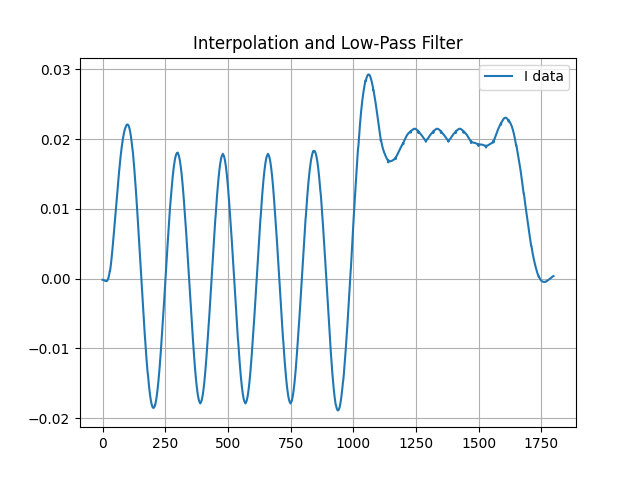
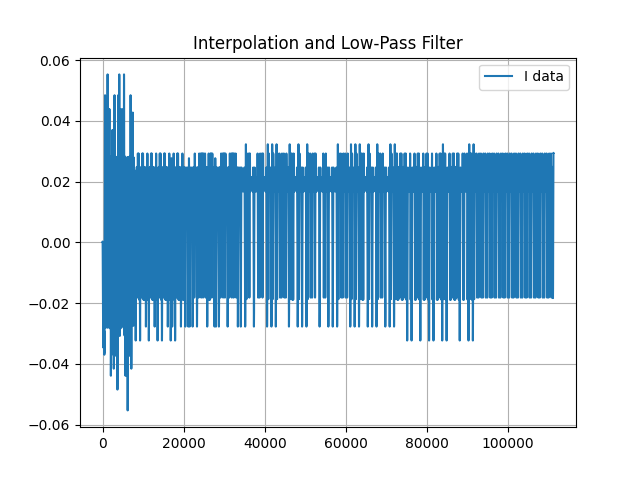
change

diff --git a/QPSK_sim.py b/QPSK_sim.py
@@ -2,7 +2,7 @@ import numpy as np
 import matplotlib.pyplot as plt
 from scipy.signal import upfirdn,lfilter,firwin
 
-
+from random import choice
 
 #Software
 
@@ -200,12 +200,12 @@ print('Occupaid Band width: ',BW* 8.4)
 Vi = 20
 
 ConSine = [1 if i%2 == 0 else -1 for i in range(10)]
-PreAmple = [1,1,1,1,1,1,1,1,0,0,0-1,-1,-1,-1,0,0,0,0,0,0,0]
-
-
 
 
 h = rrc_filter(0,6,3)
+
+X1 = np.array([1, -1, 1, -1, -1, -1, -1, -1, 1, -1, 1, -1, -1, -1, 1, -1, -1, 1, -1, -1, 1, 1, -1, -1, -1, 1, -1, -1, -1, -1, -1, -1, -1, -1, -1, 1, -1, -1, -1, -1, -1, -1, -1, -1, 1, -1, 1, 1, 1, 1, -1, -1, 1, 1, -1, -1, -1, -1, 1, -1, -1, -1, 1, 1, -1, 1, -1, 1, -1, 1, 1, 1, -1, 1, -1, 1, 1, -1, 1, 1, -1, 1, -1, 1])
+preamble = X1*1.5
 
 
 # === FIR Low-pass Filter Design (Anti-Imaging) ===
@@ -221,17 +221,14 @@ plt.show(block = False)
 
 input()
 
+stt = 0
 
 def Modulate (Data):
 
     global Test_S
     
     BS = Generate_BitStream (Data)
-    Scr_BS = Scrambler(BS)
-    
-    
-    #print(Scr_BS)
-    
+    Scr_BS = Scrambler(BS)    
     
     print('No of S/W bits in Slot: ', len(Scr_BS))
     
@@ -256,50 +253,44 @@ def Modulate (Data):
     IQ = GrayMap(Int_BS)
     _I,_Q = IQ[0] , IQ[1]
     
-    
 
-    Tend = Vi
     plt.cla()
-    plt.stem(_I[:Tend],label = 'I Data')
-    #plt.stem(_Q[:Tend],label = 'Q data')
+    plt.stem(_I,label = 'I Data')
+    #plt.stem(_Q,label = 'Q data')
     plt.legend()
     plt.title('RAW DATA')
     plt.show(block = False)
 
     input()
 
-    _I = PreAmple+_I
-    _Q = PreAmple+_Q
-    _I = ConSine+_I
-    _Q = ConSine+_Q
+    _I = list(preamble)+_I
+    _Q = list(preamble)+_Q
 
     #upsampling
     I = [0 for i in range(len(_I)*3)]
     Q = [0 for i in range(len(_Q)*3)]
-    Tend = Vi * 3
+    PreD =  [0 for i in range(len(preamble)*3)]
     i=0
     s = 1
-
-
-
 
     for j in range(0,len(I),3):
       I[j+s] = _I[i]
       Q[j+s] = _Q[i]
       i+=1
+    i=0
+ 
+    for j in range(0,len(PreD),3):
+        PreD[j+s] = preamble[i]
+        i+=1
     del(i)
-
-
 
     I = np.array(I)
     Q = np.array(Q)
 
 
-
-
     plt.cla()
-    plt.stem(n[:Tend],I[:Tend],label = 'I data')
-    #plt.stem(n[:Tend],Q[:Tend],label = 'Q data')
+    plt.stem(I,label = 'I data')
+    #plt.stem(n[Q,label = 'Q data')
     plt.legend()
     plt.title('UPSAMPLED')
     plt.show(block = False)
@@ -311,11 +302,16 @@ def Modulate (Data):
     up_I = np.convolve(I, h, mode='same')
     up_Q = np.convolve(Q, h, mode='same')
 
-    
+    PreD = list(np.convolve(np.array(PreD), h, mode='same'))
+    Peek = max(PreD)
+
+    StPeek = PreD.index(Peek)
+    print(Peek ,'@', StPeek)
+    print(len(PreD) - StPeek)
 
     plt.cla()
-    plt.plot(n[:Tend],up_I[:Tend],label = 'I data')
-    plt.plot(n[:Tend],up_Q[:Tend],label = 'Q data')
+    plt.plot(up_I,label = 'I data')
+    plt.plot(up_Q,label = 'Q data')
     plt.legend()
 
     plt.title('Pulse Shape after RRC Filter')
@@ -336,8 +332,6 @@ def Modulate (Data):
 
   
 
-    Tend = Vi * 3 *Interpolation
-
     print(len(up_I),len(ip_I))
 
     '''plt.plot(ip_I[:Tend],label = 'I data')
@@ -357,8 +351,8 @@ def Modulate (Data):
 
     plt.cla()
     
-    plt.plot(n[:Tend], DAC_I[:Tend],label = 'I data')
-    #plt.plot(n[:Tend], DAC_Q[:Tend],label = 'Q data')
+    plt.plot(DAC_I,label = 'I data')
+    #plt.plot(DAC_Q,label = 'Q data')
     plt.legend()
     plt.title('Interpolation and Low-Pass Filter')
     plt.grid()
@@ -371,11 +365,9 @@ def Modulate (Data):
     # Modulation
 
     DAC_Rd = 6.2E9
-    vi =Vi * 3 * Interpolation
+ 
     Interpolation = 33
     print('DAC interpolation: ',Interpolation)
-    Tend = int(vi * Interpolation)
-
 
     lpf = firwin(num_taps, (Sampling_rate / 2) / (DAC_Rd / 2), window='hamming')
 
@@ -391,9 +383,9 @@ def Modulate (Data):
 
     tfc = np.arange(len(DAC_upI)) / DAC_Rd
 
-    Fc = 100000000
+    Fc = 100e6
 
-    #Fc = int(input('Enter Frequency(kHz): '))*1000
+    #Fc = int(input('Enter Frequency(MHz): '))*1e6
 
     Sig_I = DAC_upI * np.cos(2 * np.pi * Fc * tfc)
     Sig_Q = DAC_upQ * np.sin(2 * np.pi * Fc * tfc)
@@ -401,8 +393,8 @@ def Modulate (Data):
     
 
     plt.cla()
-    plt.plot(Sig_I[:Tend],label = 'I data')
-    plt.plot(Sig_Q[:Tend],label = 'Q data')
+    plt.plot(Sig_I,label = 'I data')
+    plt.plot(Sig_Q,label = 'Q data')
     plt.legend()
     plt.title('Interpolation in DAC')
     plt.grid()
@@ -411,21 +403,19 @@ def Modulate (Data):
 
     input()
 
-
     DAC_GAIN = 0
     Sig_I = Sig_I * (2**DAC_GAIN)
     Sig_Q = Sig_Q * (2**DAC_GAIN)
 
-
     DAC_OUT = Sig_I - Sig_Q
     Test_S = DAC_OUT
     plt.cla()
-    plt.plot(tfc[:Tend],DAC_OUT[:Tend],label = 'DAC data')
+    plt.plot(DAC_OUT,label = 'DAC data')
     plt.legend()
     plt.title('Final DAC Output')
     plt.grid()
     plt.show(block = False)
-    print(Tend)
+
     input()
 
     return DAC_OUT
@@ -440,10 +430,12 @@ def Demodulate (ADC_IN):
     
     RX_Gain = 7
     ADC_IN = ADC_IN * (2**RX_Gain)
-   
-    #Fc = int(input('Enter Frequency(kHz): '))*1000
 
     Fc = 100000000
+
+   
+    #Fc = int(input('Enter Frequency(MHz): '))*1e6
+
     ADC_IN = Test_S
     
 
@@ -453,7 +445,7 @@ def Demodulate (ADC_IN):
 
     
     plt.cla()
-    plt.plot(tfc[:60546],Sig_I[:60546],label = 'ADC data')
+    plt.plot(Sig_I,label = 'ADC data')
     plt.legend()
     plt.title('ADC IQ sepration')
     plt.grid()
@@ -473,8 +465,10 @@ def Demodulate (ADC_IN):
     ADC_dn_Q = lfilter(lpf, 1.0, ADC_dn_Q)
 
 
+    print(max(ADC_dn_I))
+
     plt.cla()
-    plt.plot(tfc[:1800],ADC_dn_I[:1800],label = 'ADC data')
+    plt.plot(ADC_dn_I,label = 'ADC data')
     plt.legend()
     plt.title('Final ADC Output')
     plt.grid()
@@ -487,7 +481,7 @@ def Demodulate (ADC_IN):
     dc_Q = upfirdn([1],ADC_dn_Q, down = 30)
 
     plt.cla()
-    plt.plot(tfc[50:120],dc_I[50:120],label = 'I')
+    plt.plot(dc_I,label = 'I')
     plt.legend()
     plt.title('Decipolation')
     plt.grid()
@@ -506,7 +500,7 @@ def Demodulate (ADC_IN):
     rrc_Q = dc_Q
 
     plt.cla()
-    plt.plot(rrc_I[50:120],label = 'I')
+    plt.plot(rrc_I,label = 'I')
     plt.legend()
     plt.title('RX RRC Out')
     plt.grid()
@@ -523,8 +517,8 @@ def Demodulate (ADC_IN):
         dn_I.append( np.sum(rrc_I[i+1:i+2]))
         dn_Q.append( np.sum(rrc_Q[i+1:i+2]))
 
-    dn_I = dn_I[len(ConSine)+len(PreAmple):]
-    dn_Q = dn_Q[len(ConSine)+len(PreAmple):]
+    dn_I = dn_I[len(preamble):]
+    dn_Q = dn_Q[len(preamble):]
     
     
 
@@ -549,6 +543,7 @@ def Demodulate (ADC_IN):
 
     DATA = Grayde_Map(dn_DATA)
 
+
     print(len(DATA))
 
     Int_BS = Interleaver (DATA, 768,3)
@@ -562,12 +557,12 @@ ADC_IN =[]
 
 for i in FIFO:
     TX = Modulate(i)
-    print(TX[:10])
+
     Noise = np.random.randint(0,10,size= (len(TX)))
     Noise = Noise * (TX.max() / 100)
     TX = TX + Noise
     plt.cla()
-    plt.plot(TX[:60546],label = 'TX')
+    plt.plot(TX,label = 'TX')
     plt.legend()
     plt.title('TX + Noise')
     plt.grid()

diff --git a/test.py b/test.py
@@ -1,33 +1,15 @@
 import numpy as np
+import matplotlib.pyplot as plt
+from scipy.signal import get_window
 
+N = 82
+X1 = list(np.array([i for i in range(40)])/42)
+X2 = list(np.array([i for i in range(39,-1,-1)])/42)
+Y1 = list(np.array([i for i in range(40)])*-1/42)
+Y2 = list(np.array([i for i in range(39,-1,-1)])*-1/42)
+preamble = [0,0]+ X1+X2 + Y1 + Y2 + [0,0]
 
-def GrayMap(Data):
+print(len(preamble))
 
-    Graymap = {'00':(1,1),'01':(1,-1),'10':(-1,-1),'11':(-1,1)}
-
-   
-    _I = []
-    _Q = []
-
-    i = 0
-    while (i<len(Data)):
-      _i,_q = Graymap[Data[i:i+2]]
-      _I.append(_i)
-      _Q.append(_q)
-      i+=2
-    return [_I,_Q]
-
-def Grayde_Map(Sample):
-    Data = ''
-    Graymap = {(1,1):'00',(1,-1):'01', (-1,-1):'10',(-1,1):'11'}
-    for k in Sample:
-        iq = (-1 if k.real < 0 else 1) , (-1 if k.imag < 0 else 1)
-        Data+=Graymap[iq]
-
-    return Data
-
-Data = '0011011011'
-mapped = GrayMap(Data) 
-IQ = np.array(mapped[0])+1j*np.array(mapped[1])
-demap = Grayde_Map(IQ)
-print(Data == demap)
+plt.plot(preamble)
+plt.show()
